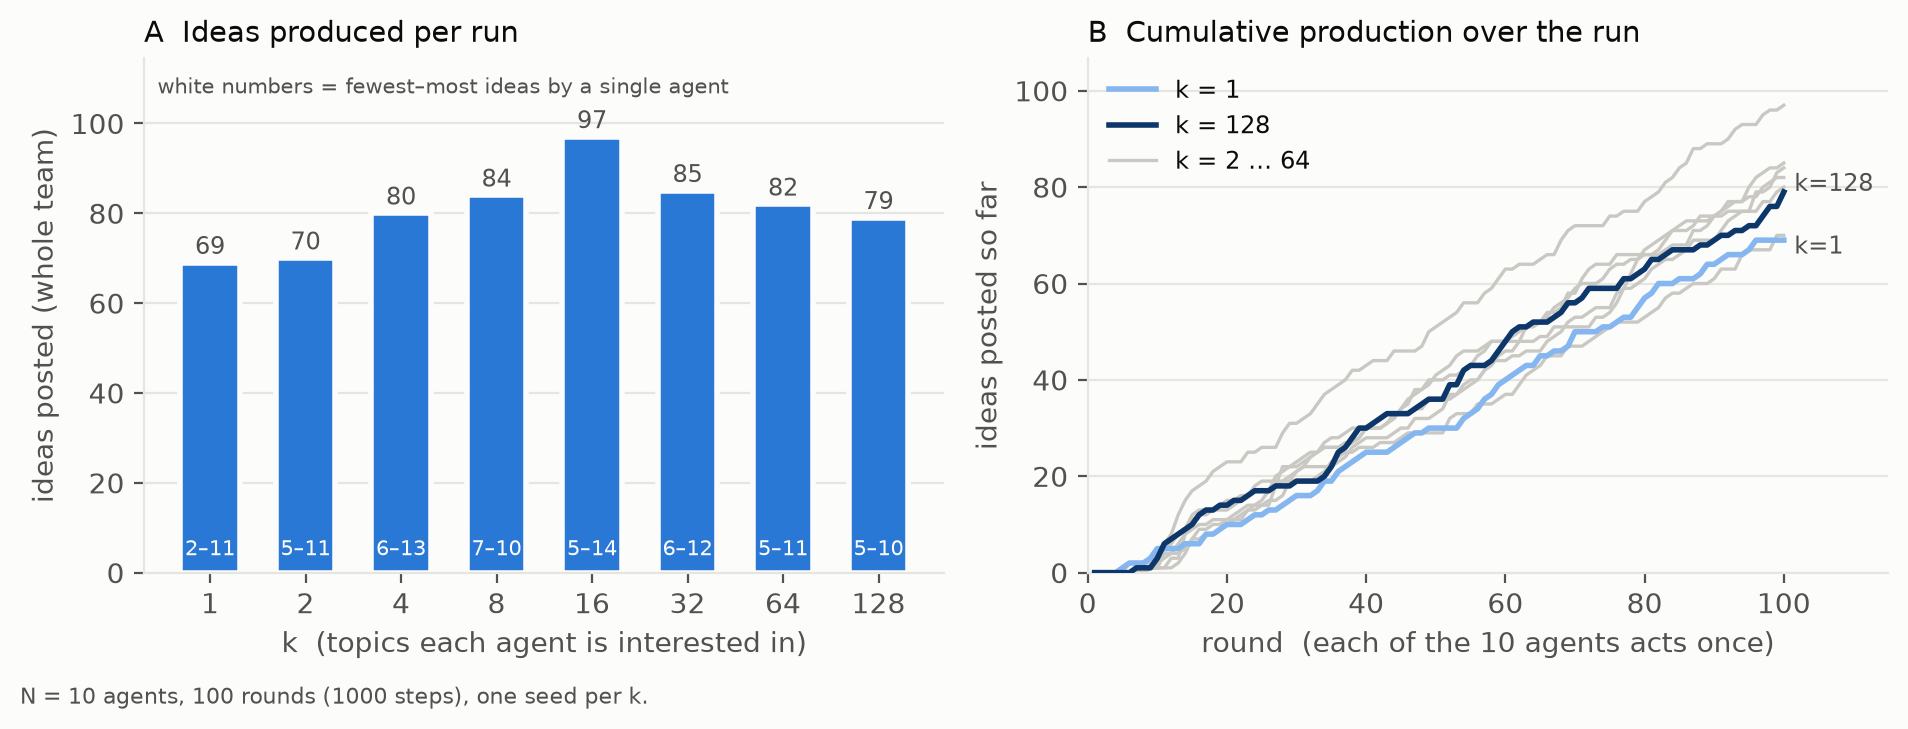
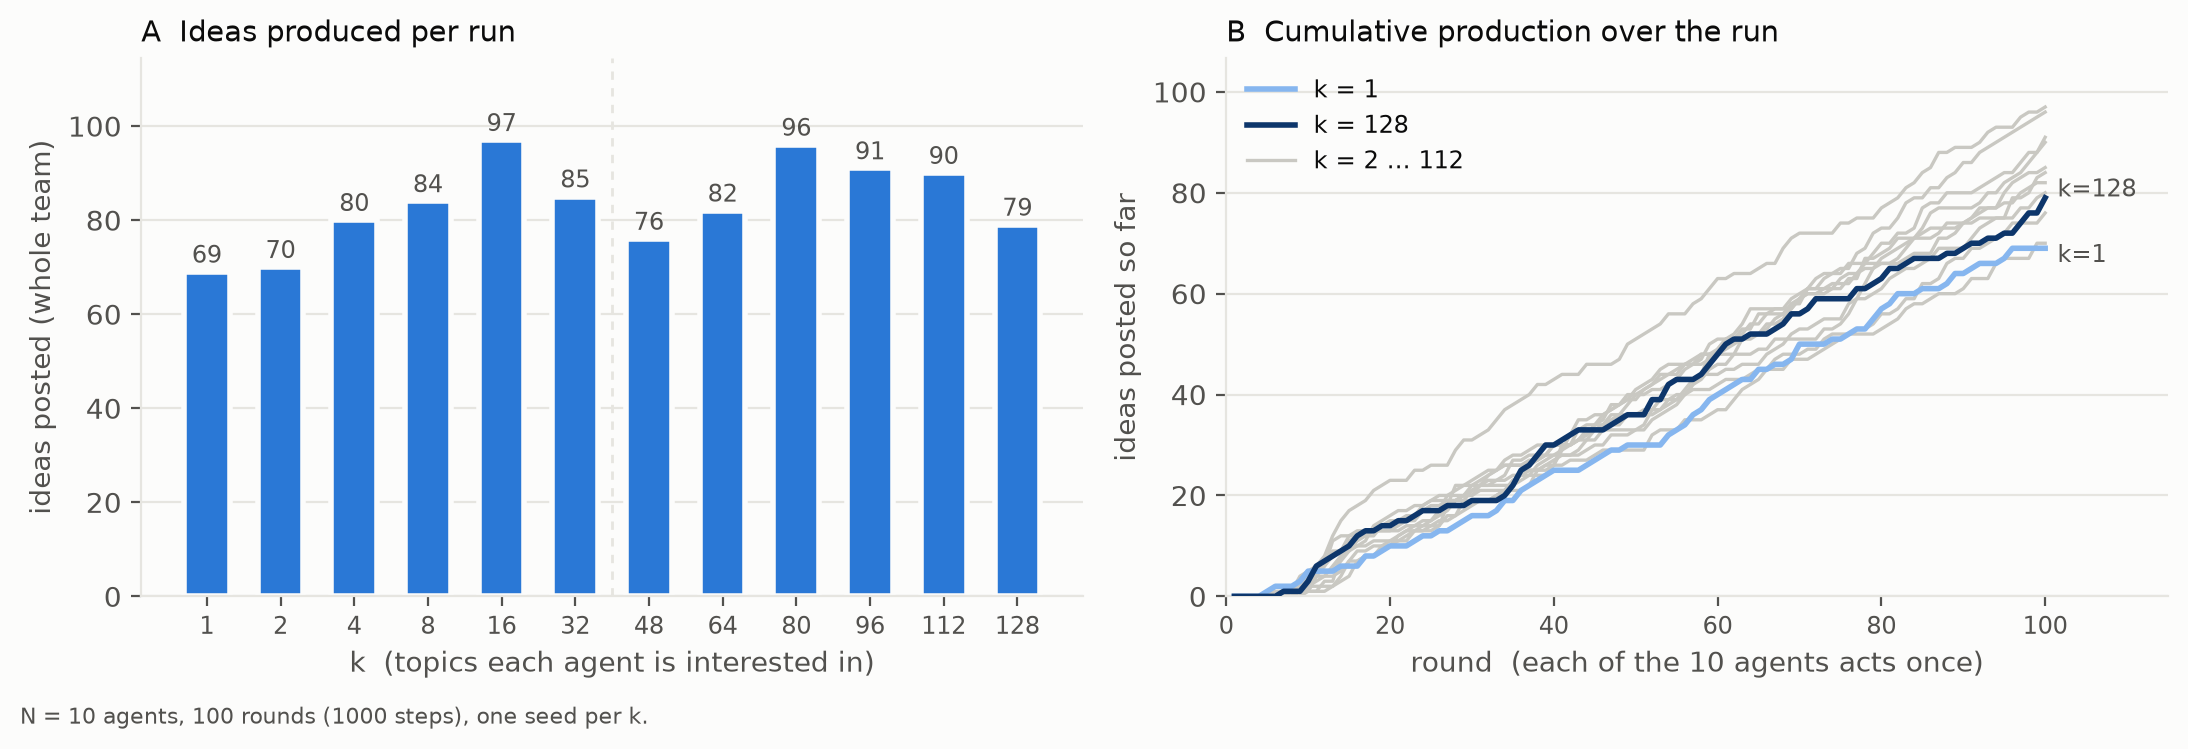
paper 2: k sweep figures over all twelve k values
Equal spacing on x with a marked break where the grid switches from doubling
to +16 steps; wider canvas so the twelve tick labels do not collide; dropped
the per-agent min-max labels that overflowed twelve narrow bars.

diff --git a/scripts/p2_forum/plot_ksweep.py b/scripts/p2_forum/plot_ksweep.py
@@ -18,10 +18,12 @@ import matplotlib
 matplotlib.use("Agg")
 import matplotlib.pyplot as plt  # noqa: E402
 
-KS = [1, 2, 4, 8, 16, 32, 64, 128]
+KS = [1, 2, 4, 8, 16, 32, 48, 64, 80, 96, 112, 128]
+XI = list(range(len(KS)))  # equal spacing; the grid switches from doubling to +16 after 32
+BREAK = KS.index(32) + 0.5
 SURF, INK, INK2, GRID, CTX = "#fcfcfb", "#0b0b0b", "#52514e", "#e6e5e0", "#c9c8c2"
 BLUE, ORANGE, LIGHT, DARK = "#2a78d6", "#eb6834", "#86b6ef", "#0d366b"
-plt.rcParams.update({"font.size": 10, "axes.edgecolor": GRID, "axes.labelcolor": INK2,
+plt.rcParams.update({"font.size": 10, "xtick.labelsize": 8.5, "axes.edgecolor": GRID, "axes.labelcolor": INK2,
                      "xtick.color": INK2, "ytick.color": INK2, "text.color": INK})
 
 
@@ -39,32 +41,33 @@ rounds = steps // 10
 foot = f"N = 10 agents, {rounds} rounds ({steps} steps), one seed per k."
 
 # ---- figure 1: uptake -------------------------------------------------------
-fig, (a, b) = plt.subplots(1, 2, figsize=(9.2, 3.4), facecolor=SURF)
+fig, (a, b) = plt.subplots(1, 2, figsize=(11.0, 3.6), facecolor=SURF)
 for ax in (a, b):
     style(ax)
-    ax.set_xscale("log", base=2)
-    ax.set_xticks(KS)
+    ax.set_xticks(XI)
     ax.set_xticklabels(KS)
     ax.set_xlabel("k  (topics each agent is interested in)")
+    ax.axvline(BREAK, color=GRID, lw=1, ls=(0, (3, 3)), zorder=0)
 po = [r["p_own"] for r in rows]
 pm = [r["p_mate"] for r in rows]
-a.plot(KS, po, color=BLUE, lw=2, marker="o", ms=6, mec=SURF, mew=1.5, label="own post in view")
-a.plot(KS, pm, color=ORANGE, lw=2, marker="o", ms=6, mec=SURF, mew=1.5, label="teammate's post in view")
+a.plot(XI, po, color=BLUE, lw=2, marker="o", ms=6, mec=SURF, mew=1.5, label="own post in view")
+a.plot(XI, pm, color=ORANGE, lw=2, marker="o", ms=6, mec=SURF, mew=1.5, label="teammate's post in view")
 a.set_ylim(0, 0.55)
 a.set_ylabel("P(cited | in 20-step memory)")
 a.set_title("A  Uptake of a post the agent can see", loc="left", fontsize=10.5)
-a.text(128 * 1.12, po[-1], "own", color=INK2, va="center", fontsize=9)
-a.text(128 * 1.12, pm[-1], "teammate", color=INK2, va="center", fontsize=9)
+a.text(XI[-1] + 0.3, po[-1], "own", color=INK2, va="center", fontsize=9)
+a.text(XI[-1] + 0.3, pm[-1], "teammate", color=INK2, va="center", fontsize=9)
 a.legend(frameon=False, loc="upper left", fontsize=8.5)
-a.set_xlim(0.8, 128 * 1.9)
+a.set_xlim(-0.5, XI[-1] + 2.2)
+a.text(BREAK, 0.005, " doubling | +16 ", ha="center", va="bottom", fontsize=7.5, color=INK2, backgroundcolor=SURF)
 cross = [r["cross"] for r in rows]
-b.bar(KS, cross, width=[x * 0.45 for x in KS], color=ORANGE, edgecolor=SURF, linewidth=2)
-for x, y in zip(KS, cross):
+b.bar(XI, cross, width=0.62, color=ORANGE, edgecolor=SURF, linewidth=2)
+for x, y in zip(XI, cross):
     b.text(x, y + 0.3, str(y), ha="center", fontsize=8.5, color=INK2)
 b.set_ylim(0, max(cross) * 1.2 + 1)
 b.set_ylabel("cross-agent citations (count)")
 b.set_title("B  Citations of a teammate's post, per run", loc="left", fontsize=10.5)
-b.set_xlim(0.7, 128 * 1.5)
+b.set_xlim(-0.6, XI[-1] + 0.6)
 fig.text(0.01, -0.02, foot + " Rates are over the posts visible in each agent's "
          "20-step memory at writing time.", fontsize=8, color=INK2)
 fig.tight_layout()
@@ -80,7 +83,7 @@ for k in KS:
     per_agent[k] = [c.get(f"a{i}", 0) for i in range(10)]
     post_rounds = [e["step"] // 10 + 1 for e in posts]
     cum[k] = [sum(1 for r in post_rounds if r <= R) for R in range(1, rounds + 1)]
-fig, (a, b) = plt.subplots(1, 2, figsize=(9.6, 3.5), facecolor=SURF)
+fig, (a, b) = plt.subplots(1, 2, figsize=(11.0, 3.6), facecolor=SURF)
 for ax in (a, b):
     style(ax)
 x = range(len(KS))
@@ -88,15 +91,12 @@ top = max(tot.values())
 a.bar(x, [tot[k] for k in KS], width=0.62, color=BLUE, edgecolor=SURF, linewidth=2, zorder=2)
 for i, k in enumerate(KS):
     a.text(i, tot[k] + top * 0.02, str(tot[k]), ha="center", fontsize=8.5, color=INK2)
-    a.text(i, top * 0.04, f"{min(per_agent[k])}–{max(per_agent[k])}", ha="center",
-           fontsize=7.5, color=SURF)
 a.set_xticks(list(x))
 a.set_xticklabels(KS)
+a.axvline(BREAK, color=GRID, lw=1, ls=(0, (3, 3)), zorder=0)
 a.set_xlabel("k  (topics each agent is interested in)")
 a.set_ylabel("ideas posted (whole team)")
 a.set_ylim(0, top * 1.18)
-a.text(-0.55, top * 1.1, "white numbers = fewest–most ideas by a single agent",
-       fontsize=7.5, color=INK2)
 a.set_title("A  Ideas produced per run", loc="left", fontsize=10.5)
 R = range(1, rounds + 1)
 for k in KS:
@@ -104,7 +104,7 @@ for k in KS:
         b.plot(R, cum[k], color=CTX, lw=1.2, zorder=1)
 b.plot(R, cum[1], color=LIGHT, lw=2, zorder=3, label="k = 1")
 b.plot(R, cum[128], color=DARK, lw=2, zorder=3, label="k = 128")
-b.plot([], [], color=CTX, lw=1.2, label="k = 2 … 64")
+b.plot([], [], color=CTX, lw=1.2, label="k = 2 … 112")
 b.text(rounds + 1.5, cum[1][-1] - 1.5, "k=1", fontsize=8.5, color=INK2, va="center")
 b.text(rounds + 1.5, cum[128][-1] + 1.5, "k=128", fontsize=8.5, color=INK2, va="center")
 b.set_xlim(0, rounds * 1.15)

diff --git a/scripts/p2_forum/ksweep_summary.py b/scripts/p2_forum/ksweep_summary.py
@@ -1,7 +1,7 @@
 import json, collections, re
 ID = re.compile(r"gen:[^\"'\s,\]]+")
 rows = []
-for k in [1, 2, 4, 8, 16, 32, 64, 128]:
+for k in [1, 2, 4, 8, 16, 32, 48, 64, 80, 96, 112, 128]:
     rid = f"forum-k{k}"
     ev = [json.loads(l) for l in open(f"runs/p2_forum/{rid}/events.jsonl")]
     f = json.load(open(f"runs/p2_forum/{rid}/board_metrics.json"))["final"]
